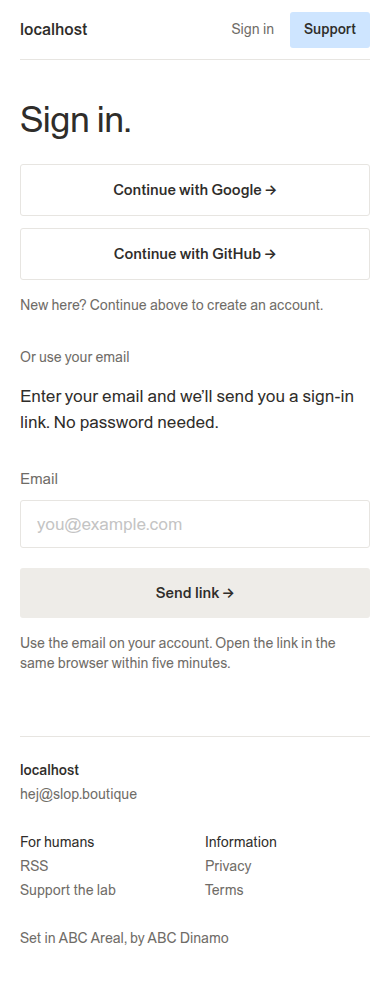
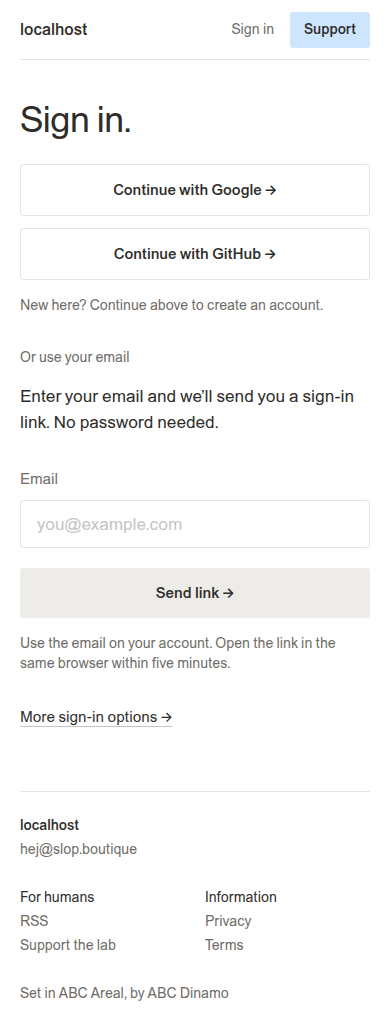
Share email sign-in across roles and retain native account access

diff --git a/pkg/catalog/web/static/catalog.css b/pkg/catalog/web/static/catalog.css
@@ -656,3 +656,5 @@ select.btn { appearance: none; cursor: pointer; }
 .signin-social .site-button { justify-content: center; border: 1px solid var(--color-line); background: transparent; }
 .signin-divider { margin: 32px 0 16px; }
 @media (max-width: 600px) { .signin-social { grid-template-columns: 1fr; } }
+
+.signin-other { margin-top: 32px; font-size: 15px; line-height: 22px; }

diff --git a/pkg/catalog/store/email_signins.go b/pkg/catalog/store/email_signins.go
@@ -11,8 +11,8 @@ import (
 const EmailSigninTTL = 5 * time.Minute
 
 type EmailSignin struct {
-	UserID, Issuer, Subject, Email, Origin, ReturnPath, ProviderSession string
-	CreatedAt, ExpiresAt                                                time.Time
+	UserID, Issuer, Subject, Email, Origin, ReturnPath, ProviderSession, Role string
+	CreatedAt, ExpiresAt                                                      time.Time
 }
 
 // ReplaceEmailSignin holds the user lock only while replacing local state.
@@ -27,7 +27,7 @@ func (s *Store) ReplaceEmailSignin(ctx context.Context, token string, binding []
 	if err != nil {
 		return EmailSignin{}, "", err
 	}
-	if !sameEmailUser(current, u.Issuer, u.Subject, u.Email) {
+	if current.Role != u.Role || !sameEmailUser(current, u.Issuer, u.Subject, u.Email) {
 		return EmailSignin{}, "", ErrNotFound
 	}
 	var old *string
@@ -35,7 +35,7 @@ func (s *Store) ReplaceEmailSignin(ctx context.Context, token string, binding []
 	if err != nil && err != pgx.ErrNoRows {
 		return EmailSignin{}, "", err
 	}
-	f := EmailSignin{UserID: u.ID, Issuer: u.Issuer, Subject: u.Subject, Email: u.Email, Origin: origin, ReturnPath: ret}
+	f := EmailSignin{UserID: u.ID, Issuer: u.Issuer, Subject: u.Subject, Email: u.Email, Origin: origin, ReturnPath: ret, Role: current.Role}
 	err = tx.QueryRow(ctx, `INSERT INTO email_signins(flow_hash,user_id,binding_hash,issuer,subject,email_snapshot,portal_origin,return_path,expires_at)
  VALUES($1,$2,$3,$4,$5,$6,$7,$8,now()+interval '5 minutes') RETURNING created_at,expires_at`, Hash(token), u.ID, binding, u.Issuer, u.Subject, u.Email, origin, ret).Scan(&f.CreatedAt, &f.ExpiresAt)
 	if err != nil {
@@ -51,7 +51,7 @@ func (s *Store) ReplaceEmailSignin(ctx context.Context, token string, binding []
 }
 
 func sameEmailUser(u User, issuer, subject, email string) bool {
-	return !u.Disabled && u.Role == "subscriber" && u.EmailVerified && u.Issuer == issuer && u.Subject == subject && strings.EqualFold(u.Email, email)
+	return !u.Disabled && (u.Role == "subscriber" || u.Role == "creator" || u.Role == "admin") && u.EmailVerified && u.Issuer == issuer && u.Subject == subject && strings.EqualFold(u.Email, email)
 }
 
 func (s *Store) AttachEmailSession(ctx context.Context, token, provider string) (bool, error) {
@@ -70,7 +70,7 @@ func (s *Store) EmailSigninReady(ctx context.Context, token string, binding []by
 func (s *Store) ClaimEmailSignin(ctx context.Context, token string, binding []byte, origin string) (EmailSignin, error) {
 	var f EmailSignin
 	err := s.Pool.QueryRow(ctx, `DELETE FROM email_signins WHERE flow_hash=$1 AND binding_hash=$2 AND portal_origin=$3 AND expires_at>now() AND provider_session_id IS NOT NULL
- RETURNING user_id,issuer,subject,email_snapshot,portal_origin,return_path,provider_session_id,created_at,expires_at`, Hash(token), binding, origin).Scan(&f.UserID, &f.Issuer, &f.Subject, &f.Email, &f.Origin, &f.ReturnPath, &f.ProviderSession, &f.CreatedAt, &f.ExpiresAt)
+ RETURNING user_id,issuer,subject,email_snapshot,portal_origin,return_path,provider_session_id,created_at,expires_at,(SELECT role FROM users WHERE id=email_signins.user_id)`, Hash(token), binding, origin).Scan(&f.UserID, &f.Issuer, &f.Subject, &f.Email, &f.Origin, &f.ReturnPath, &f.ProviderSession, &f.CreatedAt, &f.ExpiresAt, &f.Role)
 	return f, notFound(err)
 }
 
@@ -86,7 +86,7 @@ func (s *Store) CreateEmailSession(ctx context.Context, f EmailSignin) (string, 
 	if err != nil {
 		return "", err
 	}
-	if !sameEmailUser(u, f.Issuer, f.Subject, f.Email) || !f.ExpiresAt.After(time.Now()) {
+	if u.Role != f.Role || !sameEmailUser(u, f.Issuer, f.Subject, f.Email) || !f.ExpiresAt.After(time.Now()) {
 		return "", ErrNotFound
 	}
 	token, _, err := insertSession(ctx, tx, u.ID, "")

diff --git a/pkg/catalog/email_signin_test.go b/pkg/catalog/email_signin_test.go
@@ -313,11 +313,13 @@ func TestEmailSignupEligibilityAndLimits(t *testing.T) {
 	e, up, u := setupEmail(t)
 	ctx := context.Background()
 	binding := store.RandomHex(24)
-	for _, mode := range []string{"unknown", "staff", "ambiguous"} {
+	for _, mode := range []string{"unknown", "guest", "ambiguous"} {
 		email := "unknown@example.test"
-		if mode == "staff" {
+		if mode == "guest" {
 			email = u.Email
-			_ = e.store.SetUserRole(ctx, u.ID, "creator")
+			if _, err := e.store.Pool.Exec(ctx, `UPDATE users SET role='guest' WHERE id=$1`, u.ID); err != nil {
+				t.Fatal(err)
+			}
 		}
 		if mode == "ambiguous" {
 			email = u.Email
@@ -443,5 +445,45 @@ func TestSigninPreservesSafeReturn(t *testing.T) {
 				t.Fatalf("account link %s, err=%v; want return %q", match[1], err, tt.want)
 			}
 		})
+	}
+}
+
+func TestEmailSigninUsesExistingRoleForEveryAccountType(t *testing.T) {
+	for _, role := range []string{"subscriber", "creator", "admin"} {
+		t.Run(role, func(t *testing.T) {
+			e, up, u := setupEmail(t)
+			ctx := context.Background()
+			if err := e.store.SetUserRole(ctx, u.ID, role); err != nil {
+				t.Fatal(err)
+			}
+			binding := store.RandomHex(24)
+			query := issueTestEmail(t, e, up, binding)
+			status, _, headers := emailHTTP(e, "POST", "/auth/email/verify", binding, url.Values{"flow": {query.Get("flow")}, "code": {query.Get("code")}, "csrf": {binding}})
+			if status != 303 {
+				t.Fatalf("%s verification status %d", role, status)
+			}
+			response := http.Response{Header: headers}
+			token := ""
+			for _, cookie := range response.Cookies() {
+				if cookie.Name == e.srv.sessionCookie() {
+					token = cookie.Value
+				}
+			}
+			_, got, err := e.store.ResolveSession(ctx, token)
+			if err != nil || got.Role != role {
+				t.Fatalf("session role %q, err=%v; want %s", got.Role, err, role)
+			}
+		})
+	}
+}
+
+func TestEmailSigninRejectsRoleChangeBeforeFlowReplacement(t *testing.T) {
+	e, _, u := setupEmail(t)
+	ctx := context.Background()
+	if err := e.store.SetUserRole(ctx, u.ID, "admin"); err != nil {
+		t.Fatal(err)
+	}
+	if _, _, err := e.store.ReplaceEmailSignin(ctx, store.RandomHex(32), store.Hash(store.RandomHex(24)), u, "http://portal.test", "/"); err == nil {
+		t.Fatal("stale subscriber lookup created a flow after promotion")
 	}
 }

diff --git a/pkg/catalog/social_signin_test.go b/pkg/catalog/social_signin_test.go
@@ -37,7 +37,7 @@ func TestSharedSocialSignin(t *testing.T) {
 	})
 	_, body, _ := emailHTTP(e, "GET", "/signin?return=%2Fstudio%3Ftab%3Dposts%26sort%3Dnew", "", nil)
 	page := string(body)
-	for _, want := range []string{"Continue with Google", "Continue with GitHub", "to create an account"} {
+	for _, want := range []string{"Continue with Google", "Continue with GitHub", "More sign-in options", "to create an account"} {
 		if !strings.Contains(page, want) {
 			t.Fatalf("missing %s", want)
 		}
@@ -46,8 +46,8 @@ func TestSharedSocialSignin(t *testing.T) {
 		t.Fatal("role-specific sign-in remains")
 	}
 	links := regexp.MustCompile(`href="(/auth/login[^" ]*)"`).FindAllSubmatch(body, -1)
-	if len(links) != 2 {
-		t.Fatalf("expected two SSO links, got %d", len(links))
+	if len(links) != 3 {
+		t.Fatalf("expected two SSO links and the shared fallback, got %d", len(links))
 	}
 	for _, link := range links {
 		target, err := url.Parse(html.UnescapeString(string(link[1])))

diff --git a/pkg/catalog/email_signin.go b/pkg/catalog/email_signin.go
@@ -146,7 +146,7 @@ func (s *Server) issueEmail(ctx context.Context, r *http.Request, email, binding
 	if err != nil {
 		return err
 	}
-	if u.Role != "subscriber" || u.Issuer != provider.Issuer() {
+	if u.Role == "guest" || u.Issuer != provider.Issuer() {
 		return store.ErrNotFound
 	}
 	if err = provider.CheckUser(ctx, u.Subject, u.Email); err != nil {

diff --git a/ttmp/2026/10/17/FRANCOIS-013--implement-email-link-sign-in/design-doc/01-email-link-sign-in-intern-implementation-guide.md b/ttmp/2026/10/17/FRANCOIS-013--implement-email-link-sign-in/design-doc/01-email-link-sign-in-intern-implementation-guide.md
@@ -26,7 +26,7 @@ ExternalSources:
     - https://zitadel.com/docs/guides/integrate/login-ui/login-app
     - https://cheatsheetseries.owasp.org/cheatsheets/Forgot_Password_Cheat_Sheet.html
     - https://cheatsheetseries.owasp.org/cheatsheets/Session_Management_Cheat_Sheet.html
-Summary: ZITADEL Session API email challenges authenticate existing supporters into ordinary portal sessions.
+Summary: Shared social sign-in/signup and ZITADEL Session API email challenges authenticate accounts without role-specific login pages.
 LastUpdated: 2026-10-17T14:27:28-04:00
 WhatFor: Teach a new contributor the current authentication system and a small complete email sign in implementation.
 WhenToUse: Implementing the working Send link form from Ramon Final.
@@ -37,7 +37,7 @@ WhenToUse: Implementing the working Send link form from Ramon Final.
 
 A supporter enters an email address, receives a link, opens it in the same browser and presses Continue. No password or passkey is required. ZITADEL generates, sends and verifies the email code. Francois creates its normal local session only after ZITADEL confirms the email check for the expected existing identity.
 
-Use the Session API directly inside the existing Go service. This is a custom login screen for our own application, not a separately deployed login service. The existing staff OIDC login remains available. There is no new identity provider, mail queue, local SMTP implementation, token-exchange impersonation or custom OIDC proxy.
+Use the Session API directly inside the existing Go service. This is a custom login screen for our own application, not a separately deployed login service. The existing OIDC login remains available to all roles. There is no new identity provider, mail queue, local SMTP implementation, token-exchange impersonation or custom OIDC proxy.
 
 This revises the original guide, preserved in `../archive/01-superseded-first-party-email-guide.md`. That guide selected locally generated email tokens because the hosted-login documentation describes email OTP as MFA. Further investigation found ZITADEL's explicit custom-login recommendation and verified the relevant implementation in the deployed version. The choice is now **ZITADEL email authentication, followed by the existing Francois session**.
 
@@ -148,7 +148,7 @@ Keep the feature in the existing Go service:
 | `GET /auth/email/verify` | Validate flow/browser; render Continue; no provider mutation |
 | `POST /auth/email/verify` | Atomically claim flow; verify provider proof; create session |
 
-The form works without React. Unknown, ambiguous, disabled and privileged addresses all receive the same public acknowledgement. Mail service disablement can show a global unavailable message independent of a submitted address. Use the existing OIDC entry point for creator/admin sign-in.
+The form works without React. Unknown, ambiguous, disabled and guest addresses all receive the same public acknowledgement. Mail service disablement can show a global unavailable message independent of a submitted address. All roles use the same sign-in page; email proof is available to enabled verified accounts with an enrolled OTP email factor.
 
 One table holds pending state:
 
@@ -180,7 +180,7 @@ Claim the flow before contacting ZITADEL using an atomic delete conditioned on t
 request_email(form):
     require_valid_input_origin_and_csrf(form)
     admit_under_mail_limits()
-    user = unique_enabled_verified_subscriber(form.email)
+    user = unique_enabled_verified_non_guest_user(form.email)
     if user absent: return generic_acknowledgement()
     require user.issuer == configured_zitadel_issuer
     provider_user = zitadel.get_user(user.subject)
@@ -203,7 +203,8 @@ confirm_email(form):
     require active_verified_matching_user(current_provider_user, flow)
     transaction:
         lock local user row
-        require same issuer, subject, email, enabled, subscriber role
+        require same issuer, subject, email, enabled, non-guest role
+        require current role == role observed while claiming flow
         create ordinary portal session with empty OIDC id_token
     set existing portal cookie
     redirect to stored safe_return
@@ -255,7 +256,7 @@ The useful tests exercise trust boundaries, not each line of the client:
 
 - Fake provider returns a session with only a user factor: login must fail.
 - Wrong subject, wrong organization, stale/missing email factor, changed email and disabled provider user: login must fail.
-- Unknown/ambiguous/staff account requests: generic acknowledgement and no provider email.
+- Unknown/ambiguous/guest account requests: generic acknowledgement and no provider email.
 - GET link preview, including an automated mail scanner: no code verification or local session.
 - Parallel POST redemption: exactly one claimant and at most one local session.
 - Replacement while a send is in flight: late provider response cannot attach to the newer flow.
@@ -265,11 +266,11 @@ The useful tests exercise trust boundaries, not each line of the client:
 
 Then run a **real isolated** ZITADEL v4.16.1 email flow with a test user and a test mail sink. Enroll the factor, create the session without any password check, retrieve the delivered link from the mailbox, and complete the actual portal confirmation. Verify the same preexisting local user ID, existing instance ownership and entitlement behavior. Confirm provider challenge reuse fails and no temporary provider session remains active after completion. Never save service credentials, OTP codes or live links in ticket evidence; record redacted outcomes and screenshots.
 
-Run affected Go tests plus repository-required checks. The isolated round trip now passes. Production enablement still requires its dedicated credential, functioning SMTP and explicit supporter factor enrollment; no production configuration was changed.
+Run affected Go tests plus repository-required checks. The isolated round trip now passes. Production credential/SMTP configuration and the approved existing-supporter enrollment are recorded in doc/production.md. Shared social sign-in uses the same identity/session/access model; its exact rollout is recorded in the investigation diary and production receipts.
 
 ## 10. Why this is the smallest suitable integration
 
-OIDC completion through `POST /v2/oidc/auth_requests/{id}` is available if we build a login UI serving multiple applications. It would require provider application login-URL configuration and an OIDC authorization context in addition to the email flow. Our supporter sign-in only serves Francois, so none of that is required now. The existing staff OIDC path remains intact.
+OIDC completion through `POST /v2/oidc/auth_requests/{id}` is available if we build a login UI serving multiple applications. It would require provider application login-URL configuration and an OIDC authorization context in addition to the email flow. Our supporter sign-in only serves Francois, so none of that is required now. The existing role-neutral OIDC path remains intact.
 
 The result is a Final email screen, a short-lived browser-bound pending record and several server-side calls to the identity provider we already run. ZITADEL performs the actual email authentication; Francois keeps the account/session/access responsibilities it already has.
 
@@ -282,6 +283,6 @@ The browser selects only `provider=google` or `provider=github` on `/auth/login`
 
 Configure `--zitadel-google-idp-id` and `--zitadel-github-idp-id` with the existing organization providers' nonsecret IDs. `--signup-allowed` enables the page's new-account explanation. The shared Terraform environment must permit registration and set account creation plus automatic creation on those two organization IdPs; its provider secrets remain ephemeral Vault reads. Terraform outputs `google_idp_id` and `github_idp_id` provide the matching runtime values.
 
-This extension does not create an account from an unproven email address. Email links still use the existing enrollment/proof machinery. The prior instruction to label an OIDC link as creator/admin sign-in is superseded by this unified page. Any broadening of email-role eligibility is a separate pending user choice, not an implicit effect of adding social buttons.
+This extension does not create an account from an unproven email address. Email links still use the existing enrollment/proof machinery. The prior instruction to label an OIDC link as creator/admin sign-in is superseded by this unified page. The user subsequently approved one unified flow: enabled subscribers, creators and admins may use email links when their email OTP factor is enrolled. Guests remain ineligible. Before replacing a flow, compare the locked role to the lookup role; while atomically claiming the flow, also read its user’s role; compare that role again under the final user lock. Role changes still revoke pending flows and sessions. This retains the promotion-race protection without adding a database column.
 
 Tests in `pkg/catalog/social_signin_test.go` verify the page and server-owned selection, return-path encoding, disabled/unknown providers, bound state consumption, nonce and PKCE challenge. `pkg/catalog/identity/oidc_test.go` verifies provider selection preserves base/organization scopes and registration prompt behavior. The full Go suite with PostgreSQL, build, lint and logcopter checks passed for this extension. Local screenshot verification uses fixture provider IDs; it does not prove external Google/GitHub authentication. See sources/zitadel-social-login/README.md for the primary protocol references.

diff --git a/ttmp/2026/10/17/FRANCOIS-013--implement-email-link-sign-in/reference/01-investigation-diary.md b/ttmp/2026/10/17/FRANCOIS-013--implement-email-link-sign-in/reference/01-investigation-diary.md
@@ -619,3 +619,67 @@ Start with auth.go's provider switch, identity/oidc.go's scope option, signin.tm
 ### Technical details
 
 Runtime flags: --zitadel-google-idp-id, --zitadel-github-idp-id; optional existing --signup-allowed. No new dependency, environment read, database migration, service or callback endpoint is added. Email proof/role eligibility and human factors are unchanged in this checkpoint.
+
+## Step 10: Apply the approved signup policy and unify email eligibility across roles
+
+The user approved proceeding after the production registration boundary was called out. Applied the reviewed public-signup plan, merged Terraform PR #36, and extended email eligibility to enabled verified subscriber/creator/admin accounts without enrolling any additional human factors. Added explicit role comparisons at flow replacement and final session creation so role changes cannot reuse a stale authorization decision.
+
+The first code review also identified a native-account lockout if social buttons hid generic OIDC. Retained a neutral More sign-in options link on the same page. It is an authentication-method choice for everyone, not a separate creator/admin entry point.
+
+### Prompt Context
+
+**User prompt (verbatim):** "go ahead you have approval"
+
+**Assistant interpretation:** Approve the prepared public Google/GitHub account-creation policy and the shared sign-in flow, including the previously asked all-role email option.
+
+**Inferred user intent:** Complete the unified flow without further confirmation for those changes. New accounts receive ordinary roles; paid access and staff authorization remain separate.
+
+### What I did
+
+- Before approval, automatic review rejected the public-signup apply: "persistently change production ZITADEL policy to allow public account creation through Google/GitHub ... not explicitly authorized". No command in that rejected batch executed. Published the concrete proposal as draft Terraform PR #36 and continued unaffected sign-in work.
+- After approval, applied the exact saved plan: zero adds, three changes, zero destroys. Updated the policy documentation, marked PR #36 ready and merged as e41283c20bf605d84a5e972ee4a4a6dbd8ba4606. The provider IDs and existing secrets/linking rules were retained.
+- Allowed email for the three existing human roles while continuing to reject guests. Email still requires a unique enabled verified local address and a matching active organization identity with an enrolled provider email OTP factor.
+- Compare the locked role with the lookup role before replacing a flow. During atomic DELETE/RETURNING claim, read the current user role into the private EmailSignin result; compare it again under the final user lock. No schema change or migration is needed. SetUserRole continues deleting pending links and revoking sessions/grants.
+- Added successful verification tests for subscriber, creator and admin, guest rejection, and a stale lookup/promotion regression. Existing claimed-flow promotion/revocation tests continue passing.
+- Addressed the review's P1 native-account lockout with the common More sign-in options link. Updated the guide, production contract and local visual checks accordingly.
+
+### Why
+
+All roles should select authentication methods from the same page. Allowing staff email proof must not allow an old subscriber link to acquire a new privileged role during verification. The existing row locks and revocation path support that requirement with a private role snapshot instead of a new authentication subsystem.
+
+### What worked
+
+- Focused email/social regressions pass, including all three human roles, guest rejection and role-change checks.
+- Final complete PostgreSQL-backed Go suite passes; catalog package completed in 12.746s. Build, lint and logcopter checks pass.
+- The initial source PR CI passed all checks. Follow-up code is being pushed for renewed review; the original P1 has a concrete regression test and visible neutral fallback.
+- Terraform apply completed with exactly the reviewed three in-place policy/provider changes. No secrets, memberships, subscriptions or human authentication factors were changed.
+
+### What didn't work
+
+The first new role test assigned ResolveSession's first result to a user variable. That result is Session; the user is second. Compilation reported `got.Role undefined (type store.Session has no field or method Role)` at email_signin_test.go:467–468. Corrected the return order and reran the focused and complete gates successfully.
+
+The original UI omitted the native OIDC link whenever a social provider existed. Code review correctly identified that existing users without linked social identities or enrolled email OTP could lose the visible way to sign in. The neutral shared fallback fixes this without reintroducing role-specific presentation.
+
+### What I learned
+
+A common page and role-neutral email proof are separate changes. The provider checks already authenticate the identity independent of local roles; local role stability must still be enforced across network verification and the final transaction.
+
+### What was tricky to build
+
+Role updates delete pending links, but a claimed link has already left that table. Carrying the role observed during atomic claim lets the final locked transaction reject a role change that occurred afterward. The replacement-side comparison also rejects a lookup that went stale before the pending flow was written.
+
+### What warrants a second pair of eyes
+
+Review the claim subquery and final role comparison together with SetUserRole's existing transaction. Existing OTP enrollment remains required for each account; this change does not silently enroll staff or new social accounts in a human factor. The social path creates identities through ZITADEL, not browser-supplied email assertions.
+
+### What should be done in the future
+
+Complete renewed source review and CI, publish the supporting image, and roll it out together with both provider-ID flags and --signup-allowed. Verify the actual external provider entry pages before describing production social navigation as qualified.
+
+### Code review instructions
+
+Review store/email_signins.go, issueEmail's role gate, the all-role and stale-role regressions, and the template's neutral native-account fallback. The saved source references explain the IdP scope and creation settings; Terraform PR #36 owns the production policy change.
+
+### Technical details
+
+The public policy was initially blocked and then authorized explicitly; no rejection workaround was used. The application adds no migration, credential, environment read, callback, worker or queue. Provider-level human factor enrollment and actual external login-email delivery remain unchanged by this checkpoint.

diff --git a/doc/production.md b/doc/production.md
@@ -760,9 +760,9 @@ Apply migration `011_operations.sql` before deploying this implementation. It tr
 
 Normal Open resumes a saved workspace through `POST /api/instances/open`. If its pinned release is withdrawn and current policy forbids running it, Open moves that same workspace to the requested published release, preserving its URL and saved data. Permitted pins stay unchanged. Tour start limits are charged only after successful creation; concurrent resumes and capacity failures spend no starts. Expired lease payloads are purged within the next writable storage transaction before quota measurement. The public stream subscribes through `/feed.xml`; usage remains in administrator analytics. See FRANCOIS-008's implementation receipt for the verified local rollout; it is not evidence of a production deployment.
 
-## Email-only supporter sign-in
+## Email and social sign-in
 
-The Final `/signin` page supports email magic links through ZITADEL's Session API. It is off by default. Creator/admin accounts continue to use `/auth/login` and the existing OIDC client. Email login selects only an existing enabled subscriber-role user with a unique verified address and the configured ZITADEL issuer. It never creates or links an account. Payment access is still checked separately.
+The shared `/signin` page offers email magic links and configured Google/GitHub options to all roles. Email links use ZITADEL’s Session API and select an existing enabled non-guest account with a unique verified address and enrolled OTP email factor. Email authentication does not create or link accounts. Social authentication reuses `/auth/login` and the existing OIDC callback; new identities receive the ordinary local role, and existing roles are preserved. Payment access is checked separately. Email support remains off by default in the binary and is explicitly enabled in production.
 
 Apply migration `012_email_signins.sql` through the ordinary catalog migration command before running the new binary. To enable the feature, provision a **dedicated** ZITADEL machine user with the built-in `IAM_LOGIN_CLIENT` role and write its short-lived/rotated PAT to a mounted secret file. This role is privileged; do not reuse the Terraform administrator credential. The application requires user read and session read/write/delete permissions. The default ORG_USER_MANAGER role does not include session.write on v4.16.1.
 
@@ -779,7 +779,7 @@ ZITADEL, not Francois, owns SMTP. A read-only check on 2026-10-17 confirmed an a
 
 The application uses `POST /v2/sessions` with `challenges.otpEmail.sendCode.urlTemplate`, pointing to its trusted portal confirmation page. The deployed v4.16.1 proto uses a sendCode/returnCode object oneof; do not copy the older boolean returnCode email example from the MFA guide. The user opens the link **in the same browser**, then confirms with a POST. GET requests from mail scanners cannot authenticate. Both the portal attempt and temporary ZITADEL session expire in five minutes, matching the provider's default email-code expiry.
 
-Each link permits one verification attempt. After a failed or timed-out attempt, request a new email. Limits are three sends per recipient/hour, twenty attempts per client address/hour and one hundred/hour per process. Unknown, ambiguous, disabled and privileged addresses receive the same generic acknowledgement. Provider outages leave ordinary portal sessions working. Setting `--email-signin-enabled=false` disables new email authentication; existing sessions retain their normal expiry and can be revoked through existing administration.
+Each link permits one verification attempt. After a failed or timed-out attempt, request a new email. Limits are three sends per recipient/hour, twenty attempts per client address/hour and one hundred/hour per process. Unknown, ambiguous, disabled and guest addresses receive the same generic acknowledgement. Provider outages leave ordinary portal sessions working. Setting `--email-signin-enabled=false` disables new email authentication; existing sessions retain their normal expiry and can be revoked through existing administration.
 
 Email sessions use the existing local idle/absolute expiry and have no OIDC ID token. Logout stays local. Temporary provider proof sessions are deleted after redemption and expire automatically if cleanup fails. Changing a user's role revokes all portal sessions and runtime grants, and invalidates pending email attempts; promotion cannot turn an email session into an admin session.
 
@@ -798,3 +798,22 @@ The public email form and staff fallback were verified on both hostnames. With e
 The public site is artifact-only by default. In **Admin → Settings → Storefront**, enable **Show the blog publicly** to expose journal pages, creator-page posts and blog entries in RSS. The setting is `storefront.journalEnabled` in the existing versioned settings document; missing/false means hidden, including previously saved documents. No migration is needed.
 
 While hidden, `/journal`, public post URLs and `/journal/feed.xml` return 404 to visitors. `/feed.xml` continues serving artifact releases. Authorized editors can still manage posts in Studio and open individual previews with private/no-store caching and noindex; publishing a post does not override the global setting. Turning the blog off does not delete or unpublish any content. This controls public presentation rather than making previously published media URLs secret.
+
+
+### Unified social sign-in configuration
+
+Configure the existing Google/GitHub organization IdPs using nonsecret
+`--zitadel-google-idp-id` and `--zitadel-github-idp-id` flags. Browser values
+select only the fixed names `google` or `github`; the backend adds ZITADEL’s
+provider-selection scope without dropping organization scope, state, nonce or
+S256 PKCE. The neutral More sign-in options link keeps native ZITADEL accounts
+usable without a separate staff flow. All roles may use email links if their
+email OTP factor is enrolled; no human factor is enrolled implicitly by this
+code change. Role changes revoke sessions/pending links, and a claimed link
+cannot create a session after its account changes role.
+
+The explicitly approved Terraform PR #36 permits public creation through the
+two existing external providers and the organization registration policy.
+`--signup-allowed` controls the page’s signup explanation; it does not grant
+provider registration permission itself. Deploy these flags with the supporting
+image, and retain the separate subscription and administrator authorization.

diff --git a/ttmp/2026/10/17/FRANCOIS-013--implement-email-link-sign-in/changelog.md b/ttmp/2026/10/17/FRANCOIS-013--implement-email-link-sign-in/changelog.md
@@ -39,3 +39,7 @@ With explicit user approval, enrolled the single existing verified supporter in 
 ## 2026-10-17
 
 Implemented shared Google/GitHub/email sign-in presentation and allowlisted ZITADEL provider routing; full Go tests/build/lint pass. Prepared bounded social-signup Terraform plan; production rollout pending.
+
+## 2026-10-17
+
+User approved public signup; applied/merged Terraform #36 (three in-place changes). Enabled role-neutral email eligibility with role-change race checks and fixed review P1 with a shared native-account fallback. Final Go suite/build/lint pass.
